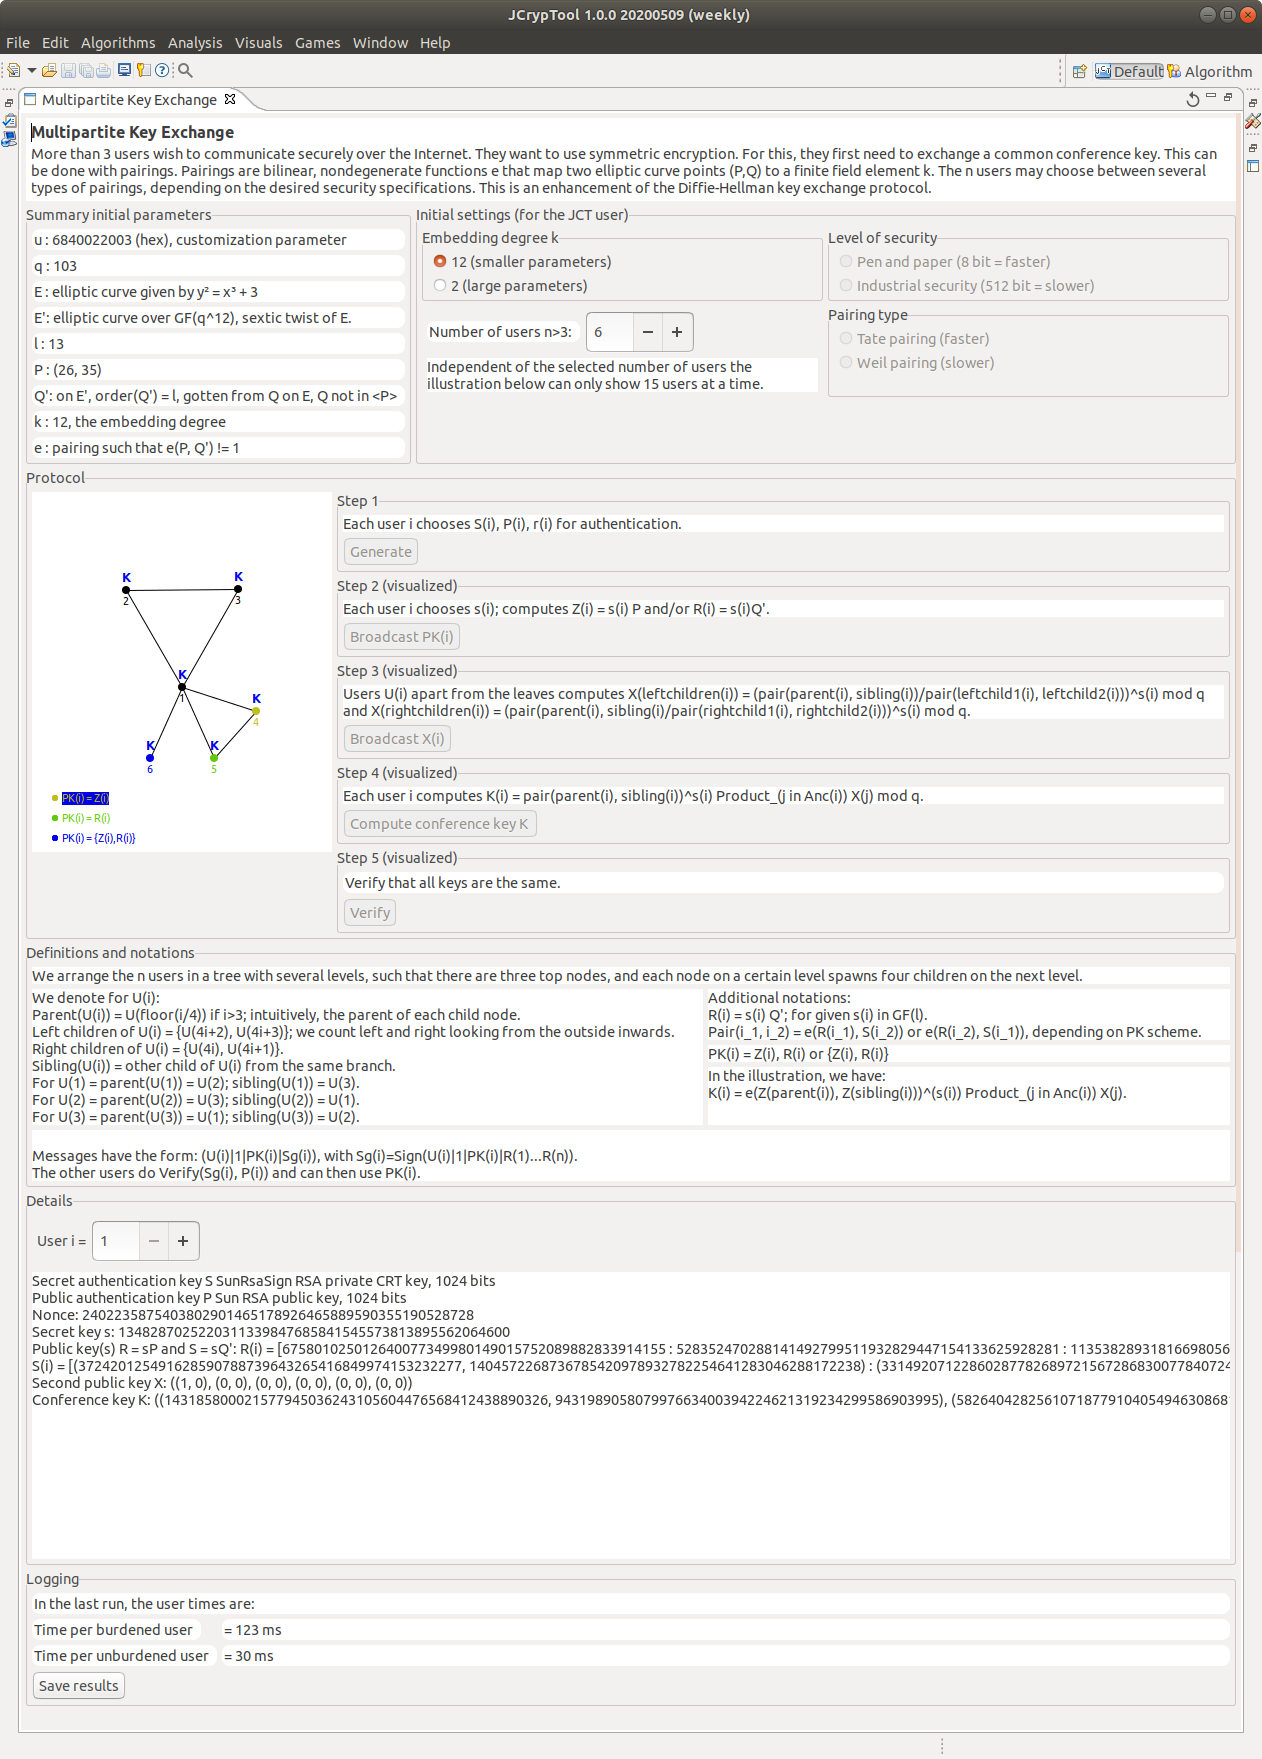
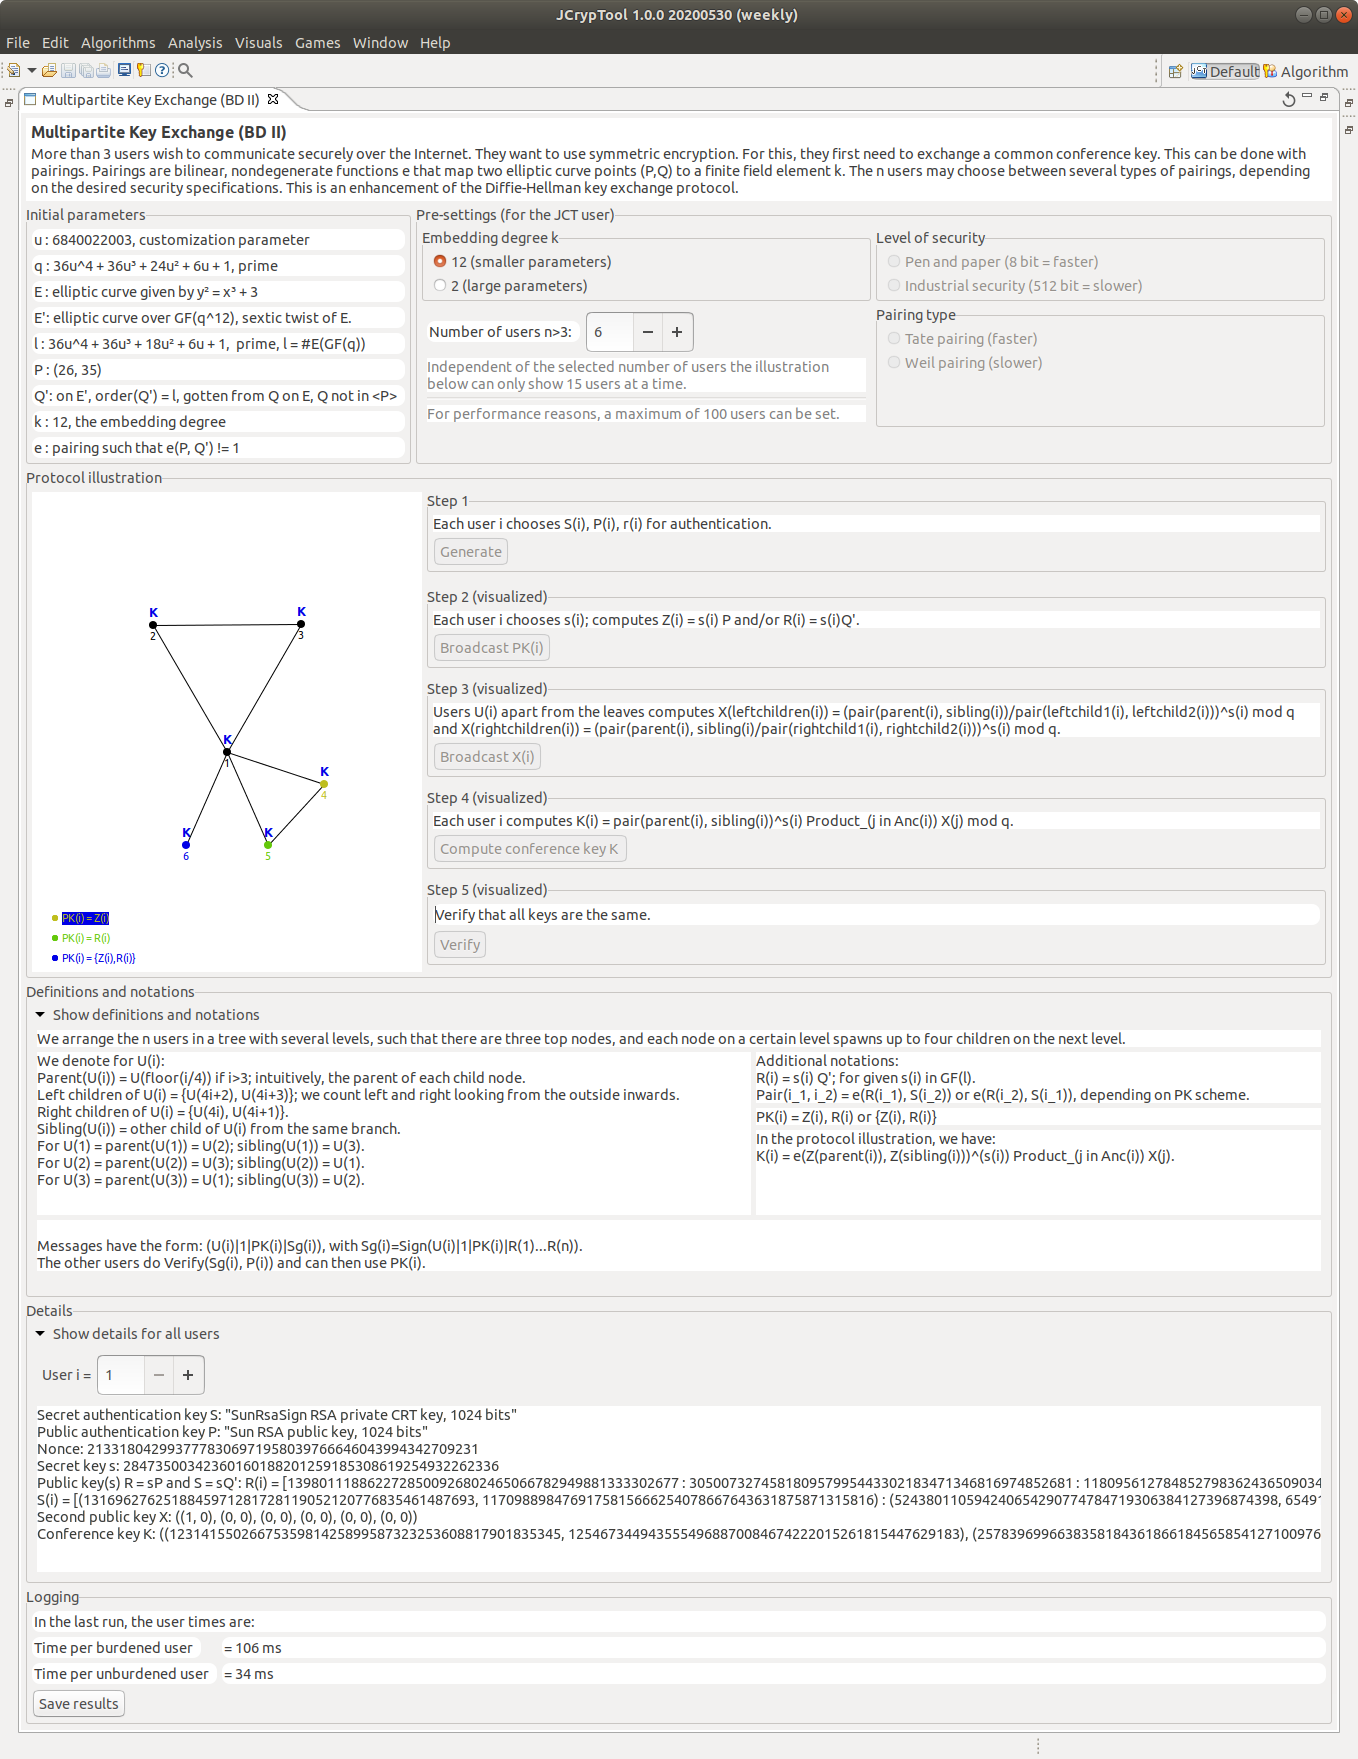
JCT MPKE: D and E online help: updated screenshots using WB2020-05-30 under Linux

diff --git a/org.jcryptool.visual.pairingbd2/nl/de/help/index.html b/org.jcryptool.visual.pairingbd2/nl/de/help/index.html
@@ -11,7 +11,8 @@
 
   <p>Multi-Party- oder Mehrparteien-Schlüsselvereinbarung (englischer Name multi-party key exchange MPKE) sind Methoden zum Austausch von Informationen über unsichere/öffentliche Kanäle, um sich auf einen sicheren, gemeinsamen kryptographischen Schlüssel zwischen mehr als 2 Parteien zu einigen.</p>
 
-<p>xxxxxxxxxxxxxx.</p>
+  <img src="MPKE_full-window_BD2-n6-k12_de.png" alt="Main-windows-MPKE" id="Main-windows-MPKE" width = "90%" />
+
 
   <p>Diese Hilfe beschreibt zwei Themen:<br/><br/>
   1) <a href="#scheme-general">Mehrparteien-Schlüsselaustausch-Algorithmen</a><br/><br/>
